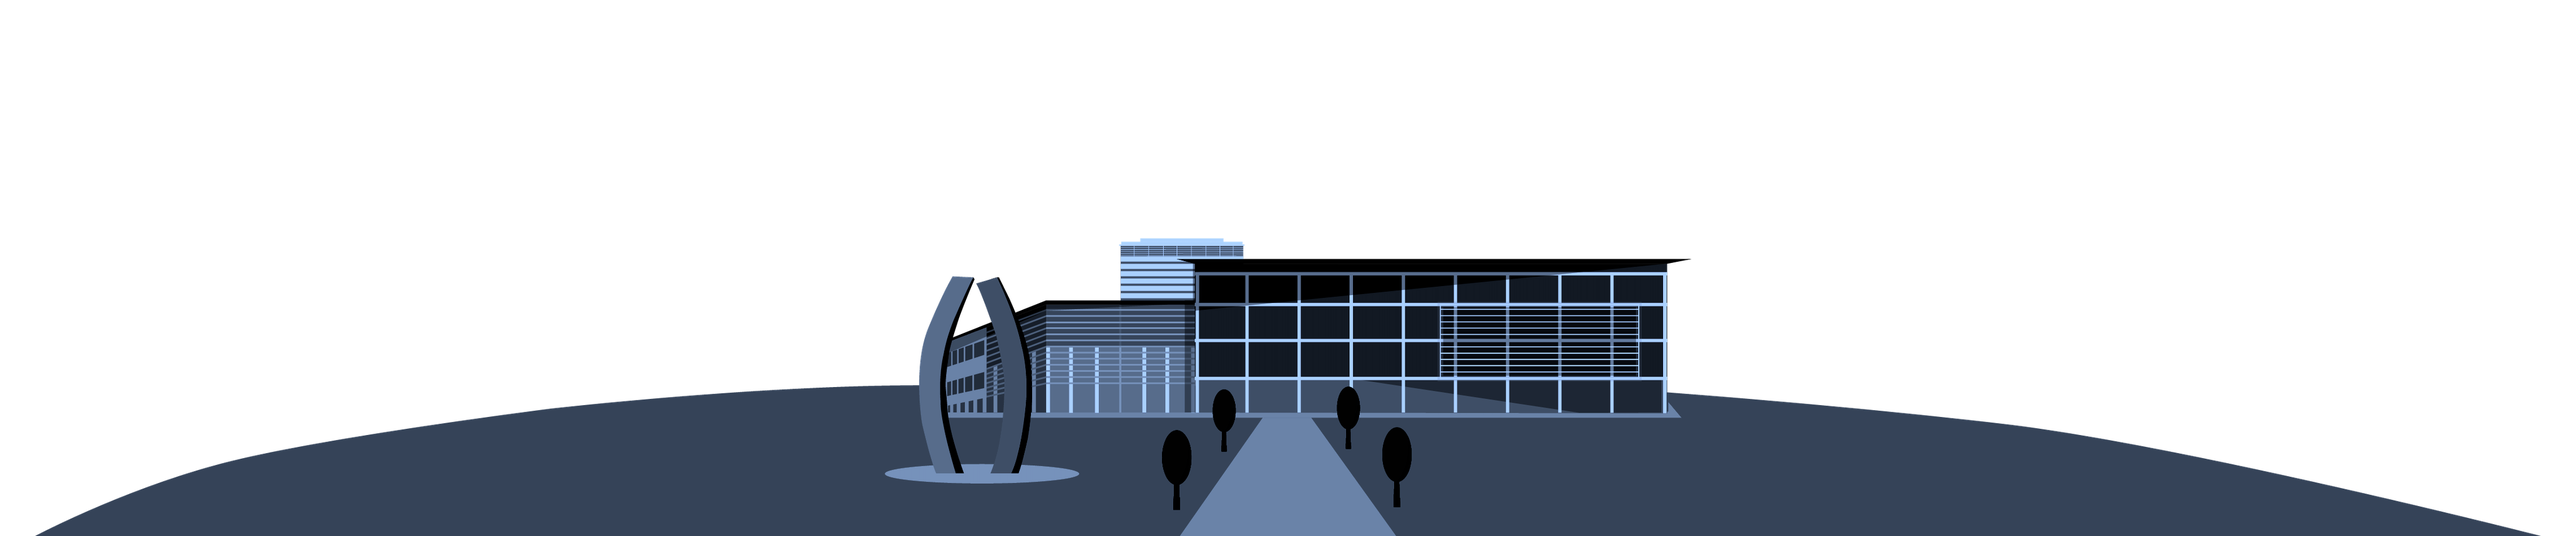
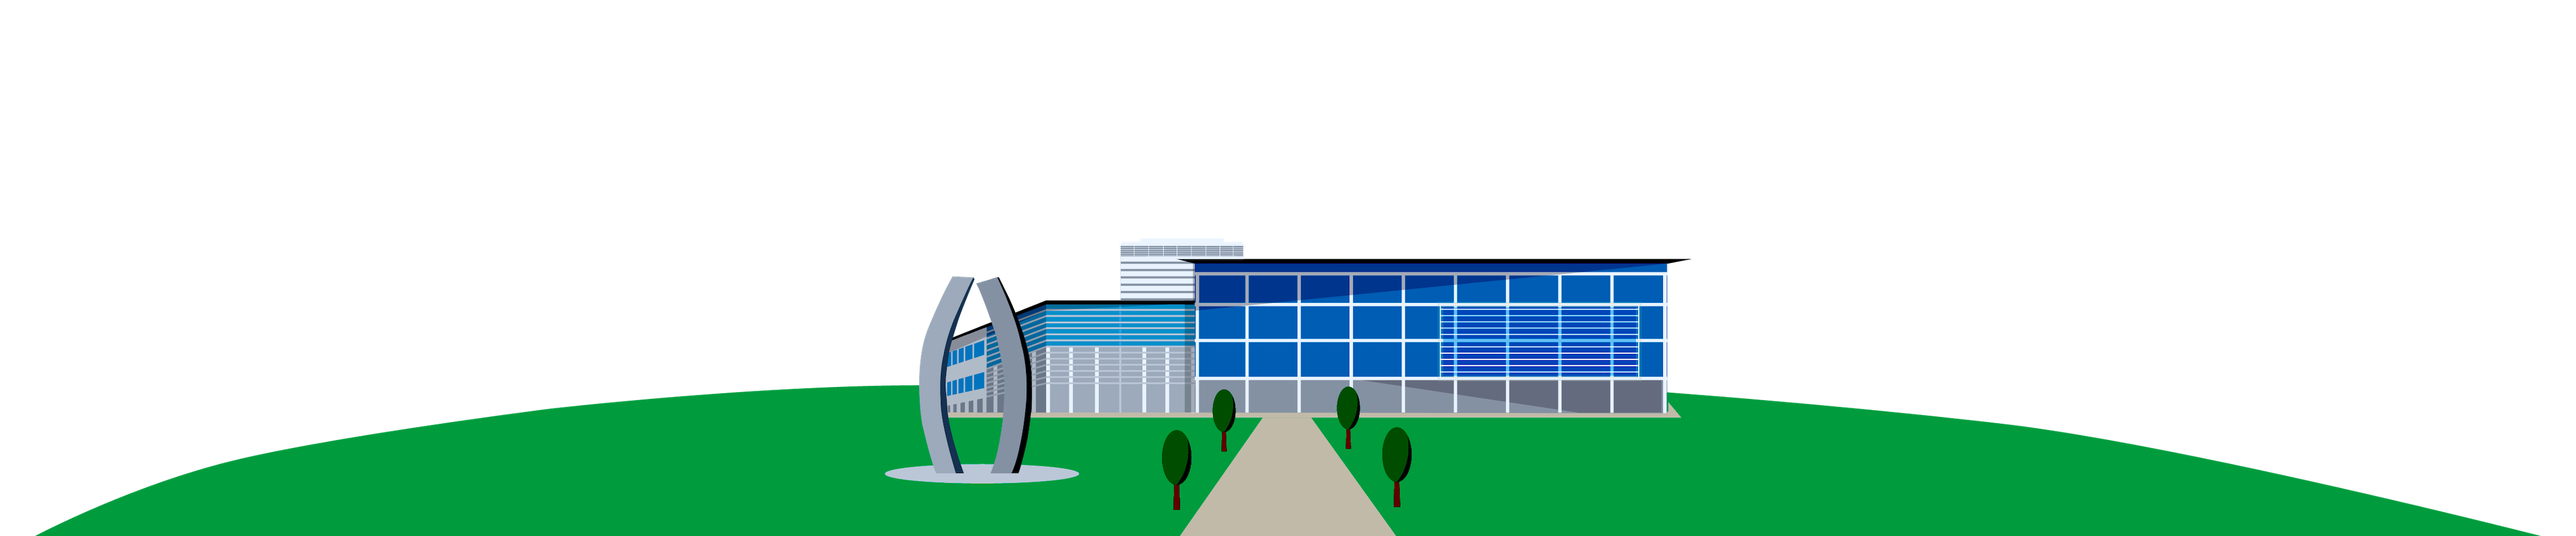
Revert "updated design"

Changed region(s): [[0.0, 0.4233, 1.0, 1.0]]

diff --git a/client/src/assets/css/Home.css b/client/src/assets/css/Home.css
@@ -3,15 +3,16 @@
   width: 100%;
 
   position: relative;
-  background: rgba(2,0,36,1);
-  background: linear-gradient(0deg, #6A83A8 10%, #2272c3 10%, rgba(2,0,36,1) 45%);
+
+  background: linear-gradient(0deg, rgba(195,188,169,1) 10%, rgba(34,152,195,1) 10%, rgba(2,0,36,1) 50%);
+
 }
 
 .Home .container {
   height: inherit;
 
   background-image: url('../images/UCM.png');
-  background-position: bottom 50px center;
+  background-position: bottom 60px center;
   background-repeat: no-repeat;
   background-attachment: absolute;
   background-size: 3200px ;
@@ -23,7 +24,7 @@
 
 .button {
   display:inline-block;
-  background-color: #D7AA27;
+  background-color: #009c3b;
   border: none;
   border-radius: 30px;
   font-size: 32px;
@@ -37,25 +38,11 @@
 }
 
 a.button:hover {
-  background-color: #F4D03F;
+  background-color: #27AE60;
 }
 
 @media screen and (max-width: 700px) {
   .Home h1 {
     font-size: 48px;
-  }
-}
-
-@media screen and (max-width: 650px) {
-  .Home {
-  }
-  .Home .container {
-    background-size: 1600px ;
-  }
-}
-
-@media screen and (max-height: 800px) {
-  .Home .container {
-    background-size: 1600px ;
   }
 }

diff --git a/client/src/components/Sponsors.js b/client/src/components/Sponsors.js
@@ -5,7 +5,6 @@ import UCANR from '../assets/images/UCANR.png';
 import CRAZE from '../assets/images/Craze.png';
 import CM from '../assets/images/CoolerMaster.png';
 import GDC from '../assets/images/GoodDayChocolate.png';
-import Raccoon from '../assets/images/raccoon4.png';
 
 class Sponsors extends Component {
   render() {
@@ -41,10 +40,7 @@ class Sponsors extends Component {
         </div>
         <div className="prompt">
           <h3>Interested in sponsoring us?</h3>
-          <p>Email us at <a href="mailto:sponsorship@hackmerced.com" style={{textDecoration:"none", color:"#D7AA27"}}>sponsorship@hackmerced.com</a>.</p>
-        </div>
-        <div className="image">
-          <img src={Raccoon} className="Raccoon" alt="Raccoon" />
+          <p>Email us at <a href="mailto:sponsorship@hackmerced.com" style={{textDecoration:"none", color:"#82E0AA"}}>sponsorship@hackmerced.com</a>.</p>
         </div>
       </div>
     );

diff --git a/client/src/assets/css/App.css b/client/src/assets/css/App.css
@@ -3,8 +3,7 @@
   text-align: center;
   width: inherit;
   height: inherit;
-  background: rgb(53,67,88);
-  background: linear-gradient(180deg, rgba(53,67,88,1) 20%, rgba(9,17,29,1) 40%, rgba(2,0,36,1) 100%);
+  background: linear-gradient(180deg, rgba(0,156,59,1) 23%, rgba(2,0,36,1) 46%);
 }
 
 h1 {
@@ -61,17 +60,6 @@ p {
   font-size: 20px;
   line-height: 23px;
   letter-spacing: 1px;
-}
-
-.Raccoon, .icon, .question {
-  transition: transform .2s; /* Animation */
-}
-.Raccoon:hover, .icon:hover {
-  transform: scale(1.1); /* (150% zoom - Note: if the zoom is too large, it will go outside of the viewport) */
-}
-
-.question:hover {
-    transform: scale(1.05);
 }
 
 @media screen and (max-width: 900px) {

diff --git a/client/src/components/About.js b/client/src/components/About.js
@@ -1,6 +1,6 @@
 import React, { Component } from 'react';
 import '../assets/css/About.css';
-import Raccoon from '../assets/images/raccoon.png';
+import Tent from '../assets/images/tent.png';
 
 class About extends Component {
   render() {
@@ -8,7 +8,7 @@ class About extends Component {
       <div className="About" id="About" >
         <div className="container">
           <div className="image">
-            <img src={Raccoon} className="Raccoon" alt="Raccoon" />
+            <img src={Tent} className="tent" alt="TENT" />
           </div>
           <div className="text">
             <h2>ABOUT US</h2>

diff --git a/client/src/components/Faqs.js b/client/src/components/Faqs.js
@@ -49,7 +49,7 @@ class Faqs extends Component {
         </div>
         <div className="prompt">
           <h3>Any other questions?</h3>
-          <p>Feel free to message us at: <a href="mailto:general@hackmerced.com?subject=HackMerced Questions&body=Dear HackMerced," style={{textDecoration:"none", color:"#D7AA27"}}>general@hackmerced.com</a>.
+          <p>Feel free to message us at: <a href="mailto:general@hackmerced.com?subject=HackMerced Questions&body=Dear HackMerced," style={{textDecoration:"none", color:"#82E0AA"}}>general@hackmerced.com</a>.
           </p>
         </div>
       </div>

diff --git a/client/src/assets/css/Sponsors.css b/client/src/assets/css/Sponsors.css
@@ -1,6 +1,6 @@
 .Sponsors {
   width: inherit;
-  padding: 100px 0 50px 0;
+  padding: 100px 0;
   position: relative;
 }
 
@@ -37,12 +37,6 @@
 .Sponsors.prompt {
   padding: 0 20px;
 }
-
-.Sponsors .Raccoon {
-  margin-top: 40px;
-  width: 200px;
-}
-
 @media screen and (max-width: 800px) {
   .row .icon{
     display: block;

diff --git a/client/src/assets/css/Faqs.css b/client/src/assets/css/Faqs.css
@@ -1,6 +1,6 @@
 .Faqs {
   width: inherit;
-  padding: 100px 0 50px 0;
+  padding: 100px 0;
   position: relative;
 }
 
@@ -26,7 +26,7 @@
 
 .Faqs .question {
   text-align: left;
-  border: 4px solid #D7AA27;
+  border: 4px solid #82E0AA;
   border-radius: 15px;
   padding: 35px;
   margin: 40px 0;

diff --git a/client/src/assets/css/About.css b/client/src/assets/css/About.css
@@ -31,6 +31,10 @@
   vertical-align: middle;
 }
 
+.tent {
+  width: 500px;
+}
+
 @media screen and (max-width: 1200px) {
   .About {
     padding-top: 50px;
@@ -41,7 +45,7 @@
 }
 
 @media screen and (max-width: 650px) {
-  .About .text {
+  .About .text, .tent {
     width: 300px;
   }
 }
